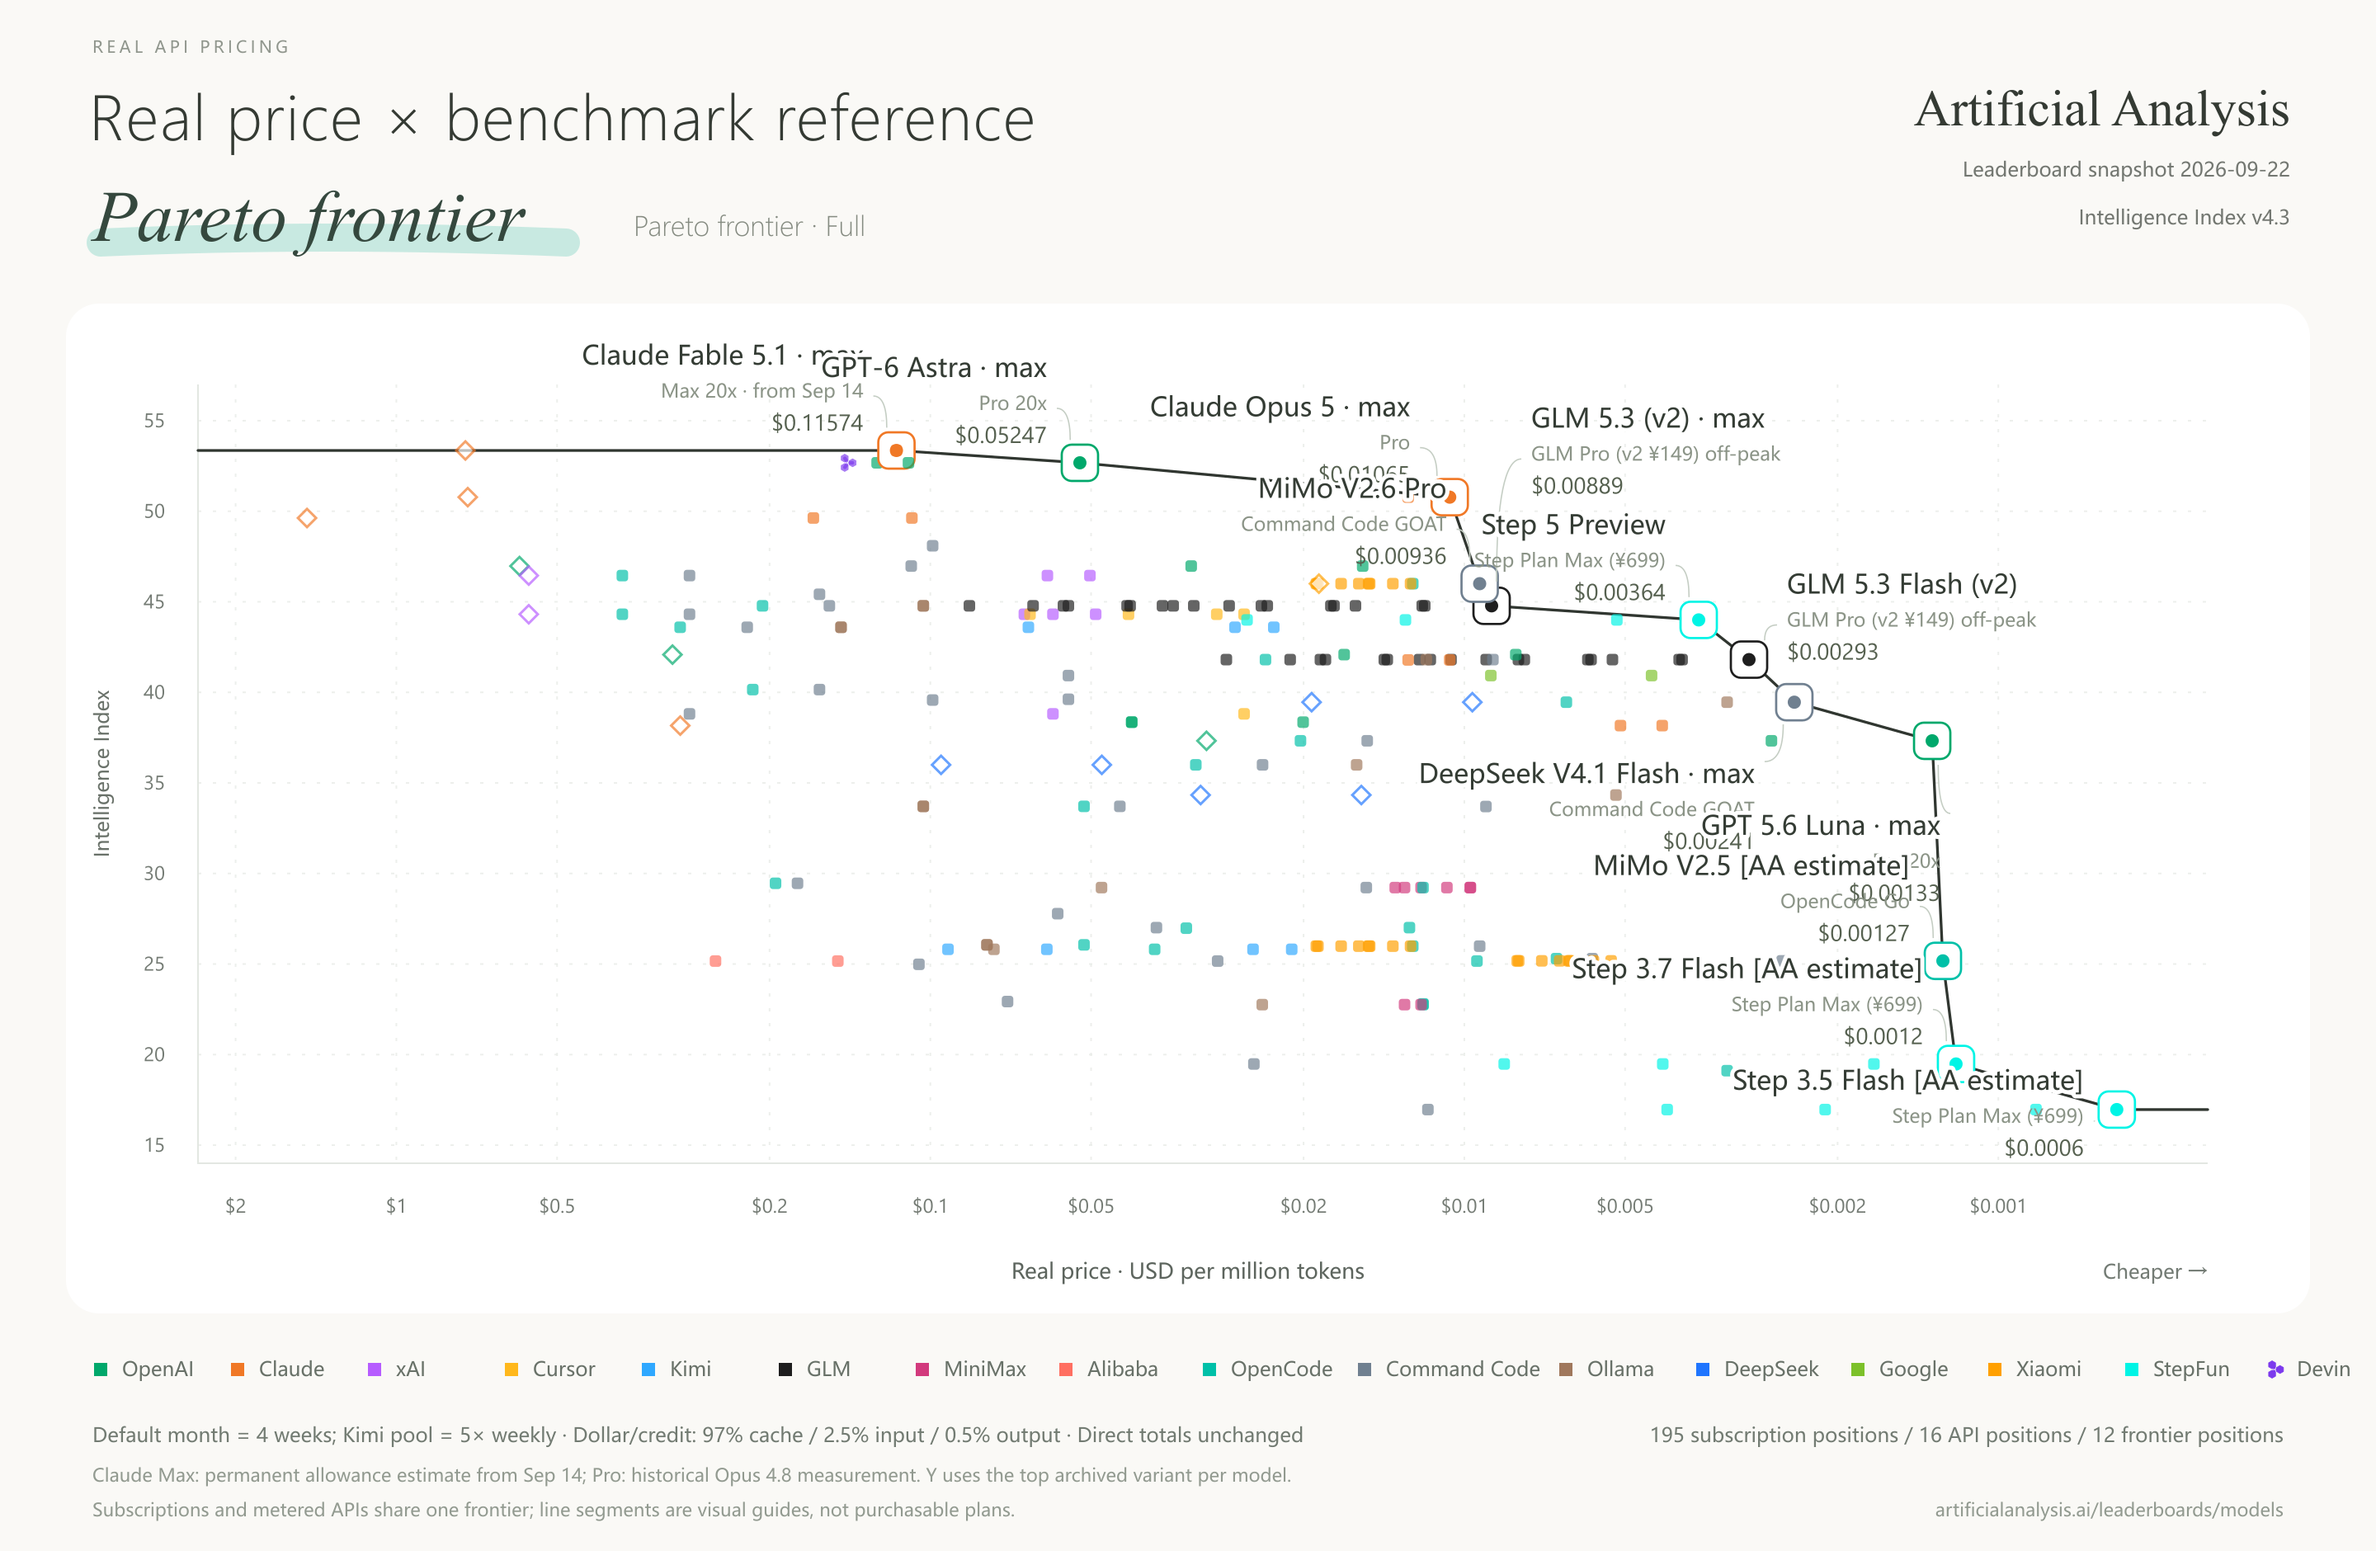
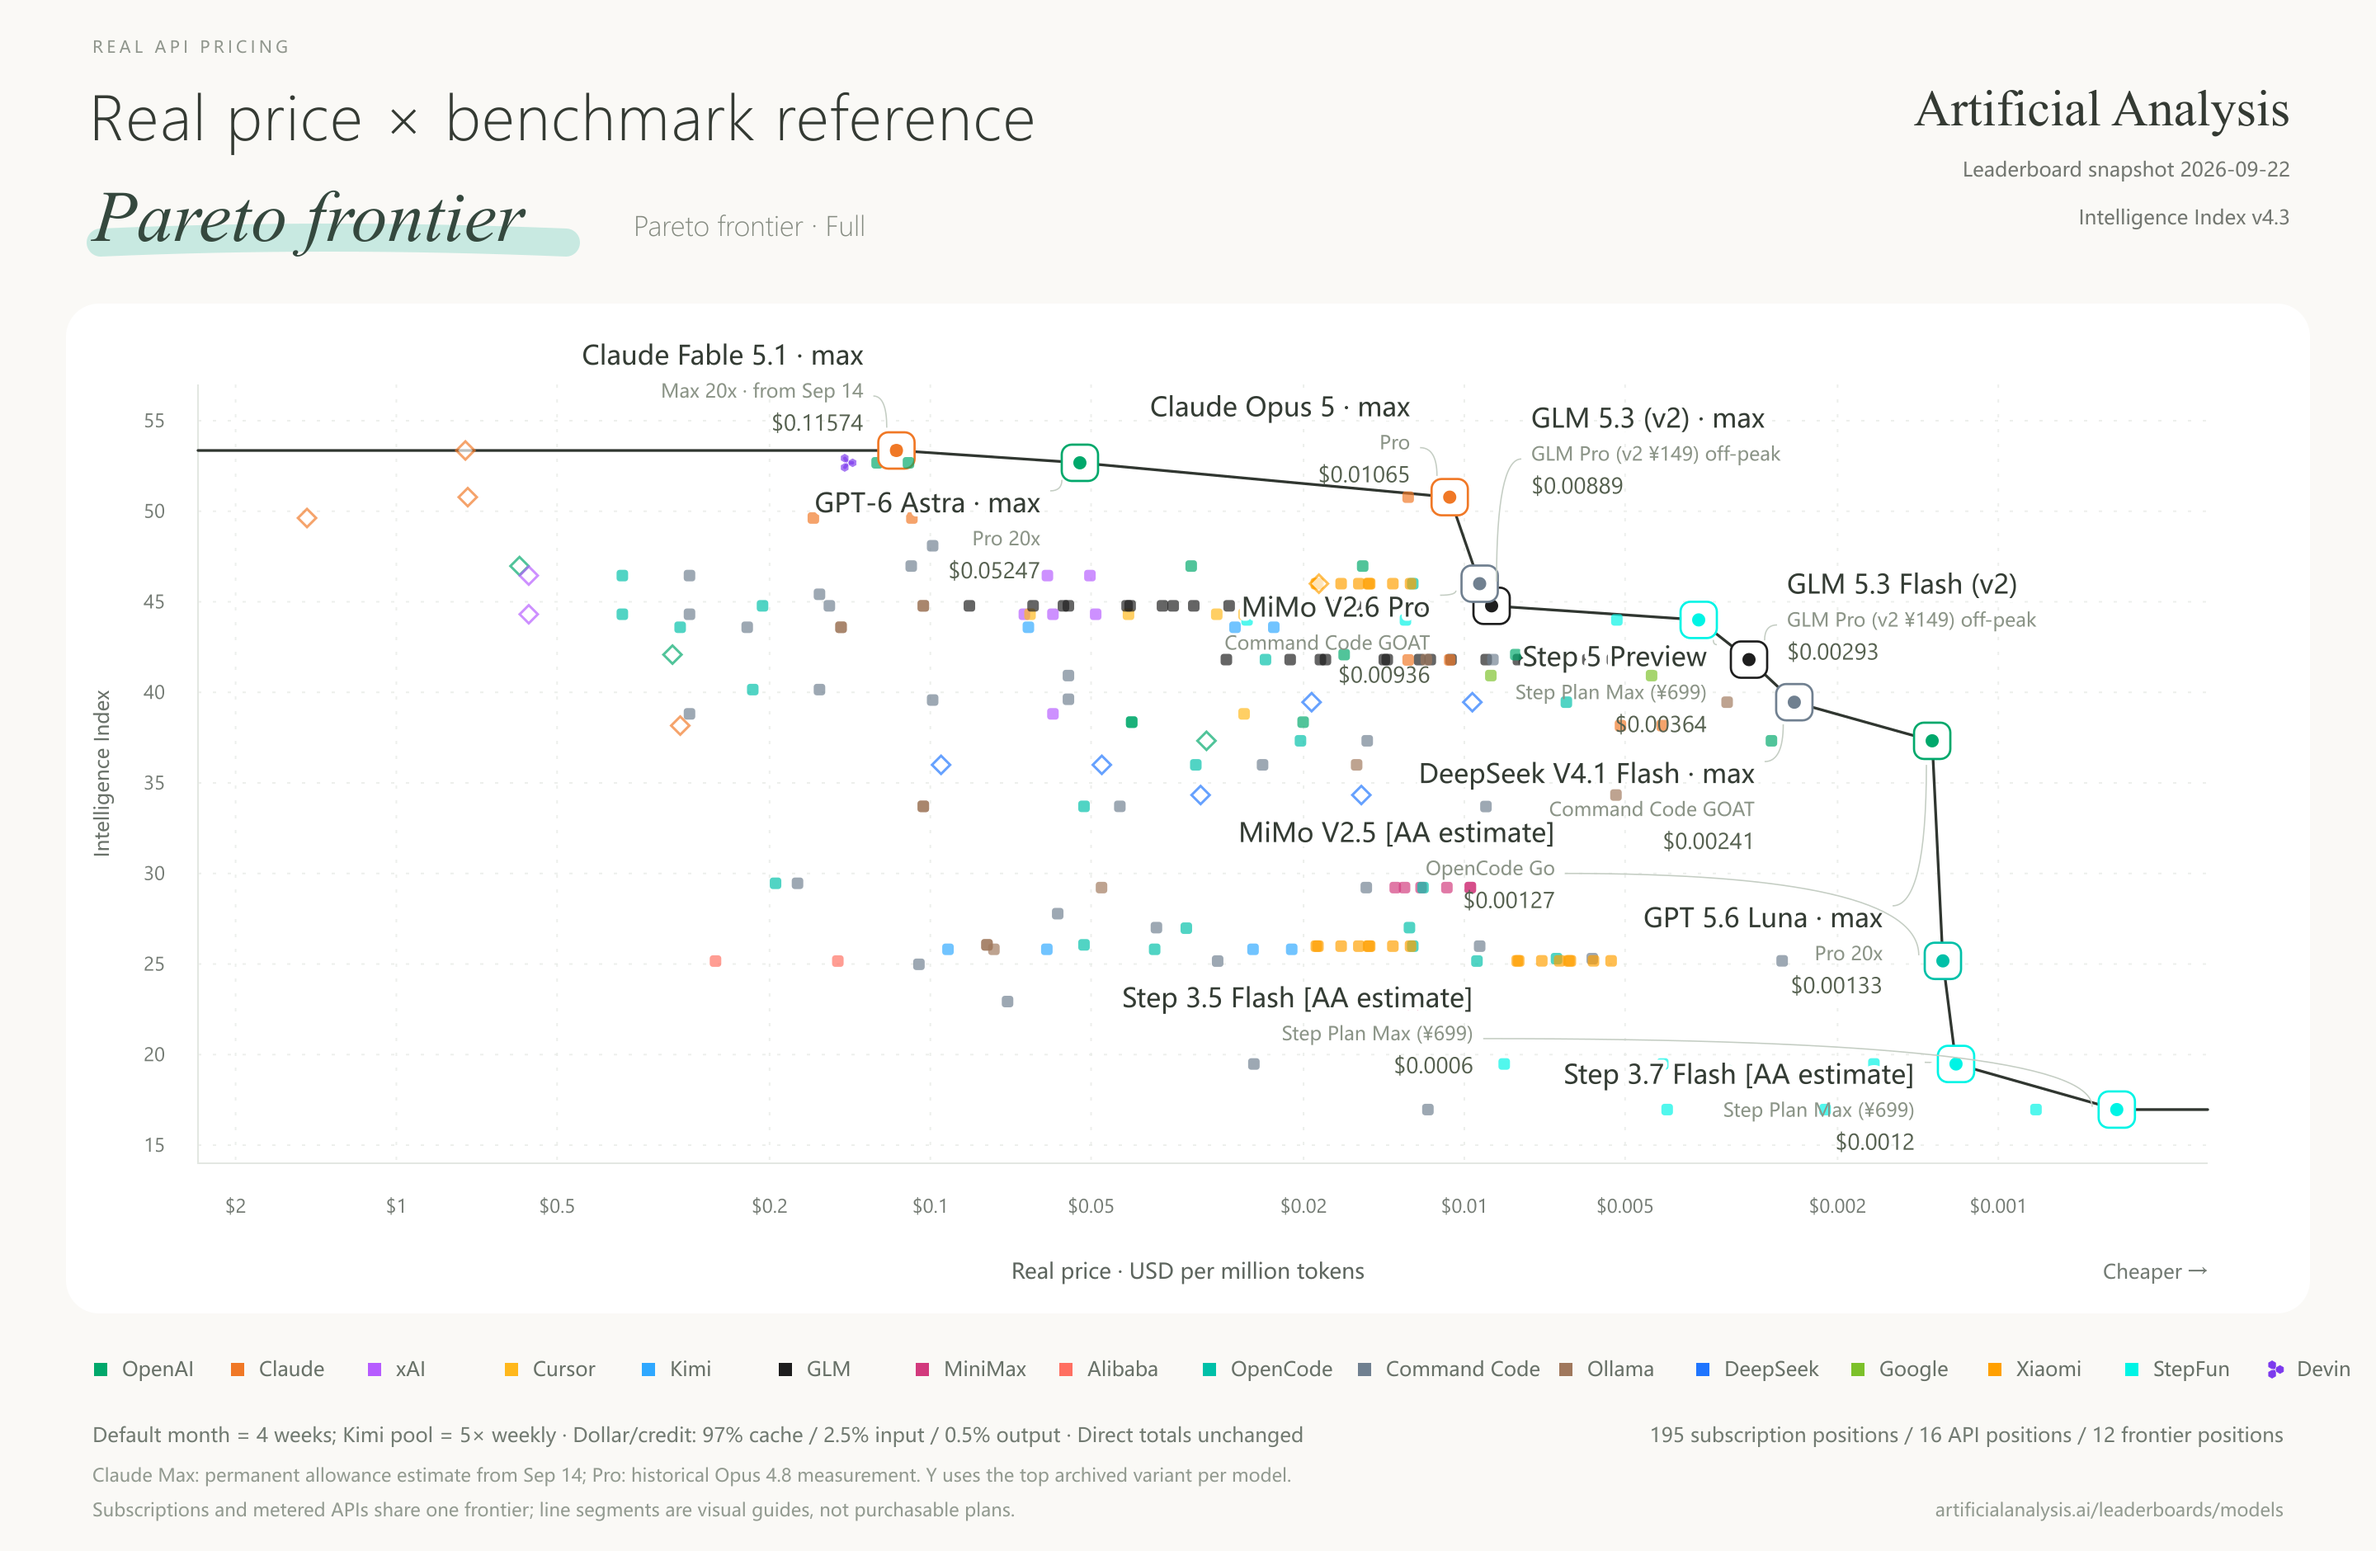
fix AA智力榜 pareto label collisions (zh+en)

diff --git a/scripts/plot_svg.py b/scripts/plot_svg.py
@@ -149,6 +149,9 @@ def label_position(p, board, x, y):
     model = p["model"]
     if model == "claude-opus-5":
         return x - 24, y - 49, "end"
+    if model == "gpt-6-astra":
+        if board == "aa_intelligence_index":
+            return x - 24, y + 30, "end"
     if model == "claude-opus-4.8":
         if board == "aa_intelligence_index":
             return x + 24, y + 43, "start"
@@ -157,6 +160,15 @@ def label_position(p, board, x, y):
         return x - 24, y + 13, "end"
     if model == "claude-sonnet-5":
         return x + 22, y - 54, "start"
+    if model == "mimo-v2.6-pro":
+        if board == "aa_intelligence_index":
+            return x - 30, y + 20, "end"
+    if model == "mimo-v2.5":
+        if board == "aa_intelligence_index":
+            return x - 235, y - 72, "end"
+    if model == "step-5-preview":
+        if board == "aa_intelligence_index":
+            return x + 5, y + 28, "end"
     if model == "glm-5.3":
         if board == "aa_intelligence_index":
             return x + 24, y - 108, "start"
@@ -169,14 +181,19 @@ def label_position(p, board, x, y):
         # TB4 全量里 Luna 分数最低（17.27%），标签整体下移会压过图框下缘。
         if board == "terminal_bench_4":
             return x + 5, y + 25, "end"
+        if board == "aa_intelligence_index":
+            return x - 30, y + 113, "end"
         return x + 5, y + 57, "end"
     if model == "gpt-5.6-terra":
         if board == "aa_intelligence_index":
             return x - 24, y + 65, "end"
         return x + 24, y - 55, "start"
+    if model == "step-3.7-flash":
+        if board == "aa_intelligence_index":
+            return x - 25, y + 12, "end"
     if model == "step-3.5-flash":
         if board == "aa_intelligence_index":
-            return x - 20, y - 12, "end"
+            return x - 390, y - 62, "end"
     if model == "swe-2":
         # 不计额度点贴右边界，标签只能往左上放，且要避开 TB4 里 Luna 的下方标签。
         return x - 30, y + 34, "end"
